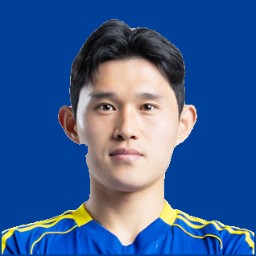
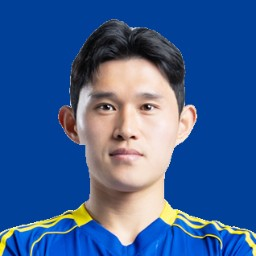
얼굴 사진: 귀 옆 관자놀이 파임 수정(연결성 규칙), 교체 버튼 금색 알약으로 확대
형준 지적: 이동경·최석현 왼쪽 귀 옆이 아직 파여 있다.
관자놀이 하이라이트가 종이와 같은 무채색(살짝 푸른 기)이라 색으로는 구분 불가 →
반지름 6 열림 뒤 테두리와 이어진 배경만 인정하고, 좁은 틈(귀 위) 너머 영역은 모든 채널 226 이상인
진짜 흰 종이일 때만 배경으로 되돌린다. 12명 재생성.

교체 버튼: 형준 "표시가 너무 작아 모를 것 같다" → 금색 배경·흰 테두리·⇄ 글리프, 16px (85×45).

diff --git a/css/style.css b/css/style.css
@@ -63,12 +63,14 @@ body {
 .sub {
   all: unset;
   position: absolute; top: 10px; left: calc(50% + 116px);
-  padding: 8px 14px; border-radius: 999px;
-  background: rgba(0,43,107,.75); border: 1.5px solid rgba(255,255,255,.5);
-  color: var(--white); font: 700 14px var(--ui);
+  padding: 10px 18px; border-radius: 999px;
+  background: var(--gold); border: 2px solid var(--white);
+  color: var(--navy); font: 800 16px var(--ui); letter-spacing: -.01em;
+  box-shadow: 0 2px 8px rgba(0,0,0,.25);
   touch-action: manipulation; cursor: pointer;
 }
-.sub:disabled { opacity: .35; cursor: default; }
+.sub::before { content: '⇄ '; font-weight: 900; }
+.sub:disabled { opacity: .35; cursor: default; box-shadow: none; }
 .sub:focus-visible { outline: 3px solid var(--gold); outline-offset: 3px; }
 
 /* 키보드를 쓰기 시작하면 터치 버튼은 숨기고 캔버스가 넓어진다 */
